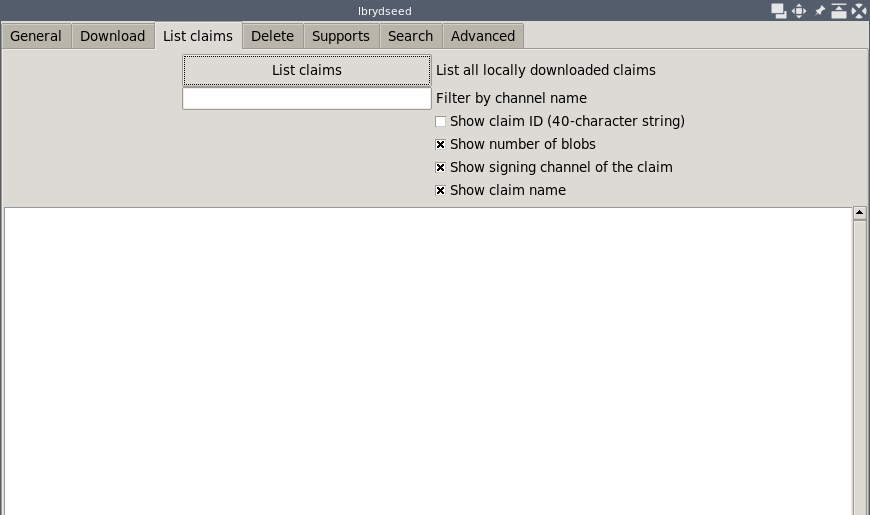
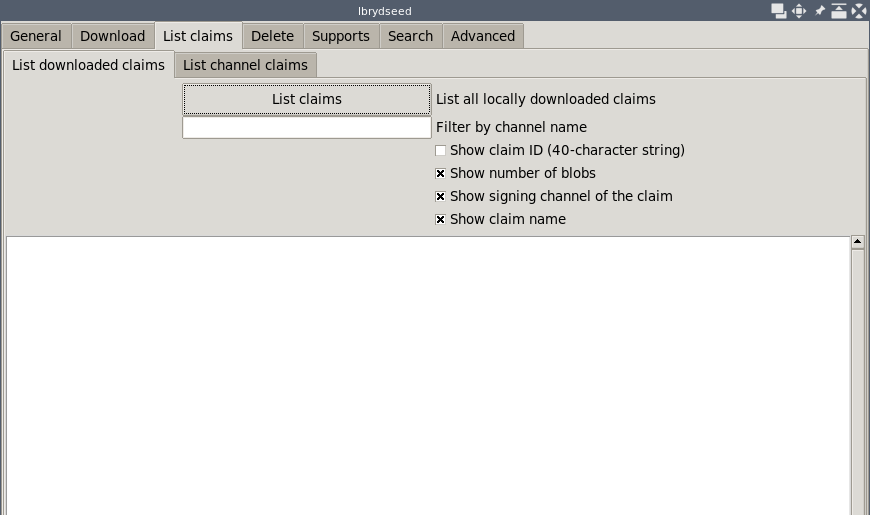
pages: new page for `ListChPage` for listing claims of a channel

Changed region(s): [[0.0, 0.0932, 1.0, 1.0], [0.9931, 0.1553, 1.0, 0.4039]]

diff --git a/dseed.py b/dseed.py
@@ -41,7 +41,7 @@ class Application(ttk.Frame,
                   pages.ConfigPage,
                   pages.TrendPage, pages.SearchPage,
                   pages.DownloadChPage, pages.DownloadSinglePage,
-                  pages.ListPage,
+                  pages.ListPage, pages.ListChPage,
                   pages.DeleteSinglePage, pages.DeleteChPage,
                   pages.SupportListPage, pages.SupportAddPage, pages.SeedPage,
                   pages.ControllingClaimsPage):
@@ -80,7 +80,9 @@ class Application(ttk.Frame,
 
         self.note_sub_list = ttk.Notebook(page_s_list)
         page_list = ttk.Frame(self.note_sub_list)
+        page_ch_claims = ttk.Frame(self.note_sub_list)
         self.note_sub_list.add(page_list, text="List downloaded claims")
+        self.note_sub_list.add(page_ch_claims, text="List channel claims")
         self.note_sub_list.pack(fill="both", expand=True)
 
         page_s_del = ttk.Frame(self.note)
@@ -133,6 +135,7 @@ class Application(ttk.Frame,
         self.setup_page_dch(page_dch)
         self.setup_page_d(page_d)
         self.setup_page_list(page_list)
+        self.setup_page_ch_claims(page_ch_claims)
         self.setup_page_del(page_del)
         self.setup_page_delch(page_delch)
         self.setup_page_supports(page_supports)
@@ -275,6 +278,60 @@ class Application(ttk.Frame,
                                        server=self.server_var.get())
 
         self.textbox_list.replace("1.0", tk.END, content)
+        self.print_done(print_msg=True)
+
+    def resolve_ch_list(self, print_msg=True):
+        """Resolve the channel to make sure it exists."""
+        channel = self.entry_chl_chan.get()
+
+        if not channel:
+            self.print_done(print_msg=True)
+            return False
+
+        if not channel.startswith("@"):
+            channel = "@" + channel
+            self.entry_chl_chan.set(channel)
+
+        ch = res.resolve_ch([channel], numbers=None,
+                            print_msg=print_msg,
+                            server=self.server_var.get())
+
+        ch = ch[0]
+        if "NOT_FOUND" in ch:
+            self.print_done(print_msg=True)
+            return False
+
+        channel = ch.lstrip("lbry://")
+        self.print_done(print_msg=print_msg)
+
+        return channel
+
+    def list_ch_claims(self):
+        """Print the channel claims in the textbox."""
+        if not res.server_exists(server=self.server_var.get()):
+            return False
+
+        channel = self.resolve_ch_list(print_msg=True)
+        if not channel:
+            return False
+
+        content, number, size = \
+            actions.print_ch_claims(channel,
+                                    number=self.spin_chl_num.get(),
+                                    blocks=self.chck_chl_blk.get(),
+                                    claim_id=self.check_cid.get(),
+                                    typ=self.chck_chl_type.get(),
+                                    ch_name=self.chck_chl_chname.get(),
+                                    title=self.chck_chl_title.get(),
+                                    start=1, end=0,
+                                    reverse=self.chck_chl_reverse.get(),
+                                    server=self.server_var.get())
+
+        size_gb = size/(1024**3)
+
+        self.textbox_ch_list.replace("1.0", tk.END, content)
+        self.label_chl_info.set(f"Claims: {number}; "
+                                f"total size: {size_gb:.4f} GB")
         self.print_done(print_msg=True)
 
     def delete_claims(self):

diff --git a/lbseed/pages_base.py b/lbseed/pages_base.py
@@ -245,6 +245,75 @@ class ListPage:
                                                  font=self.txt_lst_font)
 
 
+class ListChPage:
+    """Mixin class to provide the list channel claims to the application."""
+    def setup_page_ch_claims(self, parent):
+        self.setup_top_ch_list(parent)
+        self.setup_textbox_ch_list(parent)
+
+    def setup_top_ch_list(self, parent):
+        frame = ttk.Frame(parent)
+        frame.pack(padx=4, pady=4)
+        self.setup_grid_top_ch_list(frame, start=0)
+        self.setup_grid_check_ch_list(frame, start=4)
+        self.setup_info_ch_list(frame, start=10)
+
+    def setup_grid_top_ch_list(self, parent, start=0):
+        entry, label = \
+            blocks.setup_entry_gen(parent,
+                                   font=self.e_font,
+                                   text_var=self.entry_chl_chan,
+                                   l_text="Channel to inspect",
+                                   start=start)
+        entry.bind("<<Activate>>", blocks.f_with_event(self.list_ch_claims))
+
+        blocks.setup_button_gen(parent,
+                                width=self.b_width,
+                                b_text="Resolve online",
+                                b_command=self.resolve_ch_list,
+                                l_text="Confirm that the channel exists",
+                                start=start+1)
+
+        blocks.setup_button_gen(parent,
+                                width=self.b_width,
+                                b_text="List claims",
+                                b_command=self.list_ch_claims,
+                                l_text=("List claims from the specified "
+                                        "channel, "
+                                        "starting from the newest one,\n"
+                                        "and going back in time"),
+                                start=start+2)
+
+        spin_num, label = \
+            blocks.setup_spin_page(parent,
+                                   s_text_var=self.spin_chl_num,
+                                   s_command=self.list_ch_claims,
+                                   l_text=("Number of claims to display; "
+                                           "use 0 to display all"),
+                                   start=start+3)
+        spin_num.set(0)
+        spin_num["from_"] = 0.0
+        spin_num["to"] = 100E3
+
+    def setup_grid_check_ch_list(self, parent, start=0):
+        blocks.setup_check_ch_list(parent,
+                                   blocks_var=self.chck_chl_blk,
+                                   cid_var=self.chck_chl_cid,
+                                   type_var=self.chck_chl_type,
+                                   chname_var=self.chck_chl_chname,
+                                   title_var=self.chck_chl_title,
+                                   reverse_var=self.chck_chl_reverse,
+                                   start=start)
+
+    def setup_info_ch_list(self, parent, start=0):
+        info = ttk.Label(parent, textvariable=self.label_chl_info)
+        info.grid(row=start, column=0, columnspan=2, sticky=tk.W)
+
+    def setup_textbox_ch_list(self, parent):
+        self.textbox_ch_list = blocks.setup_textbox(parent,
+                                                    font=self.txt_lst_font)
+
+
 class DeleteSinglePage:
     """Mixin class to provide the delete page to the application."""
     def setup_page_del(self, parent):

diff --git a/lbseed/blocks.py b/lbseed/blocks.py
@@ -175,6 +175,50 @@ def setup_check_list(parent,
     chck_name.grid(row=start+3, column=1, sticky=tk.W)
 
 
+def setup_check_ch_list(parent,
+                        blocks_var=None,
+                        cid_var=None,
+                        type_var=None,
+                        chname_var=None,
+                        title_var=None,
+                        reverse_var=None,
+                        start=0):
+    """Setup the checkbuttons to control displaying properties of claims."""
+    chck_blocks = ttk.Checkbutton(parent,
+                                  variable=blocks_var,
+                                  text=("Show the creation block "
+                                        "and block height of the claim"))
+    chck_blocks.grid(row=start, column=1, sticky=tk.W)
+
+    chck_cid = ttk.Checkbutton(parent,
+                               variable=cid_var,
+                               text="Show claim ID (40-character string)")
+    chck_cid.grid(row=start+1, column=1, sticky=tk.W)
+
+    chck_type = ttk.Checkbutton(parent,
+                                variable=type_var,
+                                text=("Show the type of claim, stream, "
+                                      "and media, if available"))
+    chck_type.grid(row=start+2, column=1, sticky=tk.W)
+
+    chck_chname = ttk.Checkbutton(parent,
+                                  variable=chname_var,
+                                  text=("Show the name of the channel"))
+    chck_chname.grid(row=start+3, column=1, sticky=tk.W)
+
+    chck_chname = ttk.Checkbutton(parent,
+                                  variable=title_var,
+                                  text=("Show the claim 'title' "
+                                        "instead of the claim 'name'"))
+    chck_chname.grid(row=start+4, column=1, sticky=tk.W)
+
+    chck_reverse = ttk.Checkbutton(parent,
+                                   variable=reverse_var,
+                                   text=("Show in descending order "
+                                         "(newer items first, older last)"))
+    chck_reverse.grid(row=start+5, column=1, sticky=tk.W)
+
+
 def setup_check_support(parent,
                         show_ch_var=None,
                         show_claims_var=None,

diff --git a/lbseed/actions.py b/lbseed/actions.py
@@ -114,6 +114,44 @@ def print_claims(cid=True, blobs=True, show_channel=False,
     return content
 
 
+def print_ch_claims(channel,
+                    number=0,
+                    blocks=False, claim_id=False,
+                    typ=False, ch_name=False,
+                    title=False,
+                    start=1, end=0,
+                    reverse=False,
+                    last_height=99_000_900,
+                    server="http://localhost:5279"):
+    """Print all or a certain number of claims for a specified channel."""
+    if number:
+        output = lbryt.ch_search_n_claims(channel,
+                                          number=number,
+                                          last_height=last_height,
+                                          reverse=False,
+                                          server=server)
+    else:
+        output = lbryt.ch_search_all_claims(channel,
+                                            last_height=last_height,
+                                            reverse=False,
+                                            server=server)
+
+    if not output:
+        return False
+
+    with tempfile.NamedTemporaryFile(mode="w+") as fp:
+        content = lbryt.print_sch_claims(output["claims"],
+                                         blocks=blocks, claim_id=claim_id,
+                                         typ=typ, ch_name=ch_name,
+                                         title=title, sanitize=True,
+                                         start=start, end=end,
+                                         reverse=reverse,
+                                         file=fp.name, fdate=False, sep=";")
+        fp.seek(0)
+        content = fp.read()
+    return content, len(output["claims"]), output["total_size"]
+
+
 def delete_claims(claims, what="media",
                   print_msg=True,
                   server="http://localhost:5279"):

diff --git a/lbseed/pages.py b/lbseed/pages.py
@@ -45,7 +45,7 @@ import tkinter as tk
 import lbseed.resolve as res
 from .pages_base import (ConfigPage,
                          DownloadChPage, DownloadSinglePage,
-                         ListPage,
+                         ListPage, ListChPage,
                          DeleteSinglePage, DeleteChPage,
                          SupportListPage, SupportAddPage)
 from .pages_adv import SeedPage, ControllingClaimsPage, TrendPage, SearchPage
@@ -147,12 +147,33 @@ class Variables:
         self.label_sch_info = tk.StringVar()
         self.label_sch_info.set("Page: -")
 
+        self.entry_chl_chan = tk.StringVar()
+        self.entry_chl_chan.set("@lbry:3f")
+        self.spin_chl_num = tk.IntVar()
+        self.spin_chl_num.set(0)
+        self.chck_chl_blk = tk.BooleanVar()
+        self.chck_chl_blk.set(False)
+        self.chck_chl_cid = tk.BooleanVar()
+        self.chck_chl_cid.set(False)
+        self.chck_chl_type = tk.BooleanVar()
+        self.chck_chl_type.set(False)
+        self.chck_chl_chname = tk.BooleanVar()
+        self.chck_chl_chname.set(False)
+        self.chck_chl_title = tk.BooleanVar()
+        self.chck_chl_title.set(False)
+        self.chck_chl_reverse = tk.BooleanVar()
+        self.chck_chl_reverse.set(True)
+        self.label_chl_info = tk.StringVar()
+        self.label_chl_info.set("Total claims: 0; "
+                                "total size: 0 GB")
+
 
 # Use the classes to prevent warnings by code checkers (flake8)
 True if ConfigPage else False
 True if DownloadChPage else False
 True if DownloadSinglePage else False
 True if ListPage else False
+True if ListChPage else False
 True if DeleteSinglePage else False
 True if DeleteChPage else False
 True if SupportListPage else False

diff --git a/lbseed/resolve.py b/lbseed/resolve.py
@@ -62,11 +62,14 @@ def check_download_dir(ddir=None, server="http://localhost:5279"):
     return ddir
 
 
-def resolve_ch(channels, numbers, print_msg=True,
+def resolve_ch(channels, numbers=None, print_msg=True,
                server="http://localhost:5279"):
     """Resolve input channels to see if they in fact exist."""
     resolve_info = []
     out = []
+
+    if not numbers:
+        numbers = len(channels) * [None]
 
     for num, group in enumerate(zip(channels, numbers), start=1):
         channel = group[0]
@@ -91,7 +94,10 @@ def resolve_ch(channels, numbers, print_msg=True,
                 info = item["canonical_url"]
 
         channel = f"'{channel}'"
-        out += [f"{num:2d}: name={channel:58s} number={number}  {info}"]
+        if number:
+            out += [f"{num:2d}: name={channel:58s} number={number}  {info}"]
+        else:
+            out += [f"{num:2d}: name={channel:58s}  {info}"]
         resolve_info.append(info)
 
     if print_msg:

diff --git a/README.md b/README.md
@@ -198,6 +198,10 @@ Press `"List claims"` to display all claims downloaded to the system.
 
 ![lbryseed list_claims](./img/g_lbrydseed_list_claims.png)
 
+Press `"List claims"` to display all claims from a single channel.
+
+![lbryseed list_claims](./img/g_lbrydseed_list_ch_claims.png)
+
 Enter the name or claim ID of various claims, then press `"Delete claims"`.
 
 ![lbryseed delete_single](./img/g_lbrydseed_delete_single.png)
